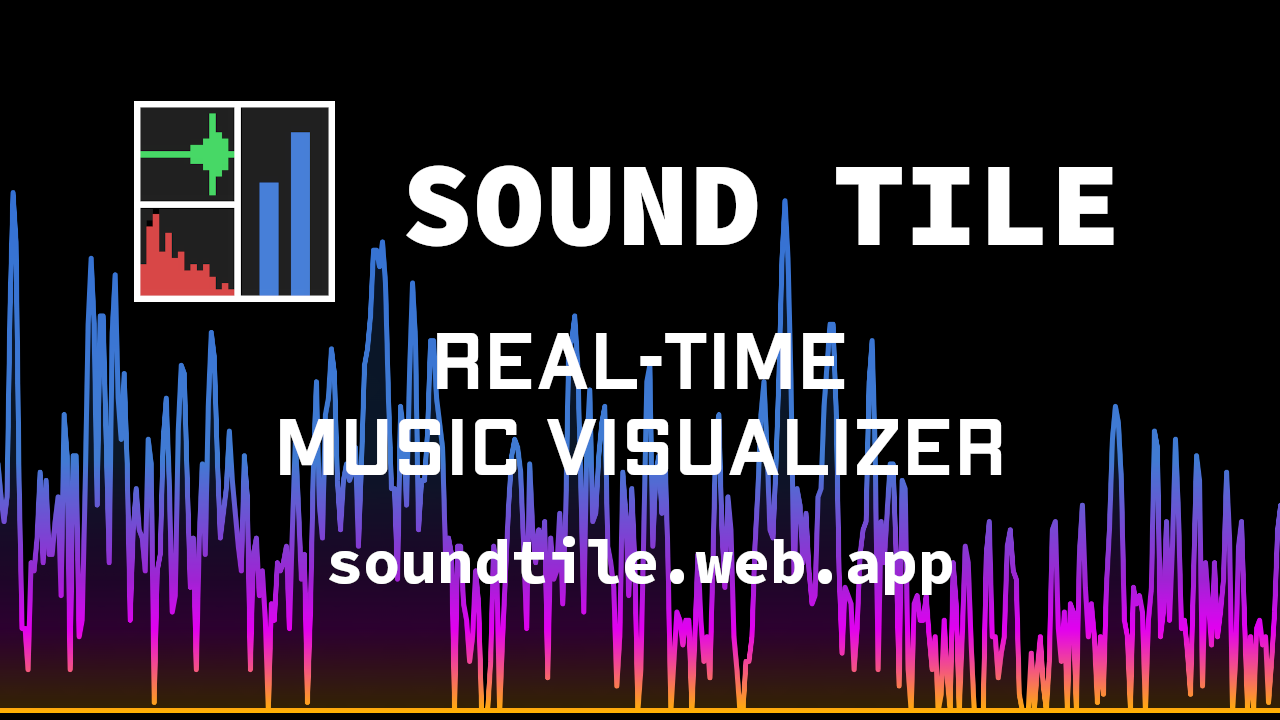
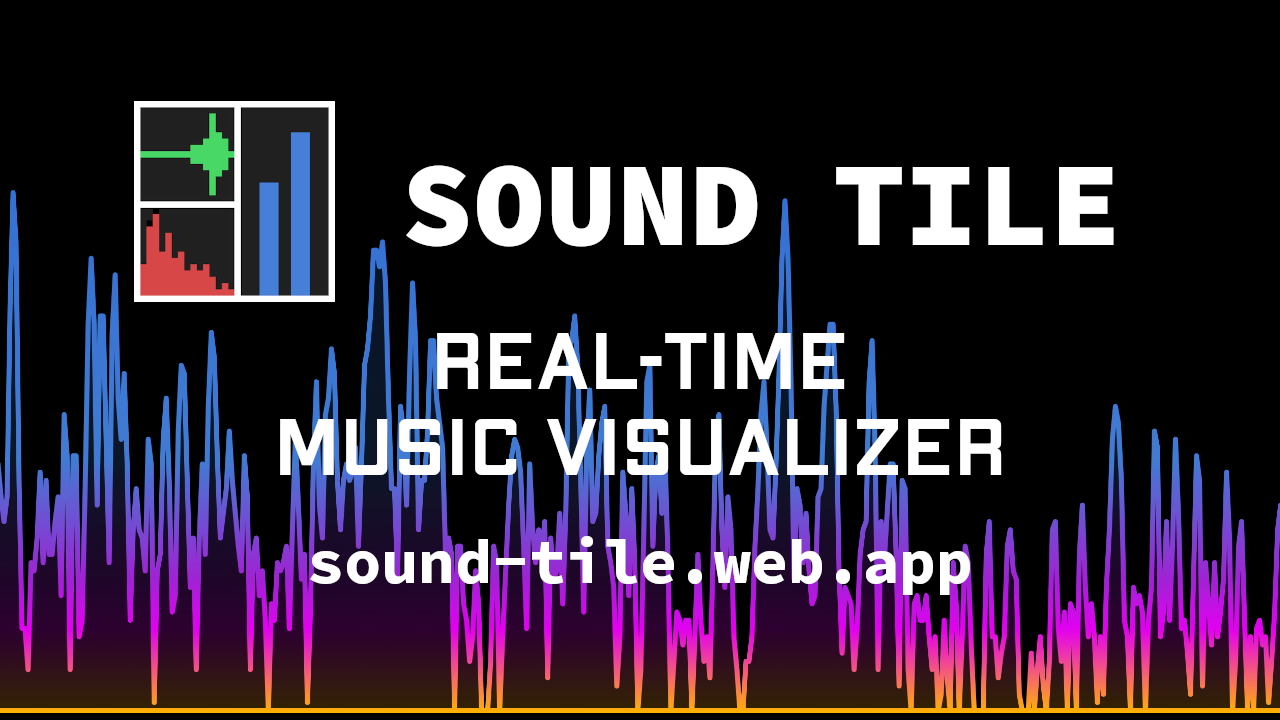
shit i deleted the domain
fuckkkk i cant get it back

Changed region(s): [[0.2188, 0.7333, 0.7812, 0.825]]

diff --git a/index.html b/index.html
@@ -7,12 +7,12 @@
     <meta name="application-name" content="Sound Tile">
     <meta name="title" content="Sound Tile">
     <meta name="description" content="Tile-based real-time visualizer and music player">
-    <meta name="url" content="https://soundtile.web.app/">
-    <meta name="image" content="https://soundtile.web.app/logo.png">
+    <meta name="url" content="https://sound-tile.web.app/">
+    <meta name="image" content="https://sound-tile.web.app/logo.png">
     <meta property="og:title" content="Sound Tile">
     <meta property="og:description" content="Tile-based real-time visualizer and music player">
-    <meta property="og:url" content="https://soundtile.web.app/">
-    <meta property="og:image" content="https://soundtile.web.app/logo.png">
+    <meta property="og:url" content="https://sound-tile.web.app/">
+    <meta property="og:image" content="https://sound-tile.web.app/logo.png">
     <meta property="og:image:width" content="256">
     <meta property="og:image:height" content="256">
     <meta name="keywords" content="chiptune, music, visualizer, realtime, soundtile, audio">

diff --git a/README.md b/README.md
@@ -5,7 +5,7 @@ Like [corrscope](https://github.com/corrscope/corrscope) but different.
 
 Sound Tile is a highly-customizable real-time music visualization app that runs in the browser. It aims to provide flexible layout possibilities for any music visualization need in real time (NO pre-processing!!), featuring spectrum analyzers, waveform correlation (like corrscope), and spectrograms.
 
-Officially hosted online at ~~[soundtile.web.app](https://soundtile.web.app)~~ (*still the [original Sound Tile](https://github.com/spsquared/sound-tile) until this version reaches stable builds*) with development builds at [soundtile-dev.web.app](https://soundtile-dev.web.app).
+Officially hosted online at [sound-tile.web.app](https://sound-tile.web.app) with development builds at [sound-tile-dev.web.app](https://sound-tile-dev.web.app).
 
 There will be a better showcase and tutorial of features in the future, but for now, check out the sites and experiment!
 
